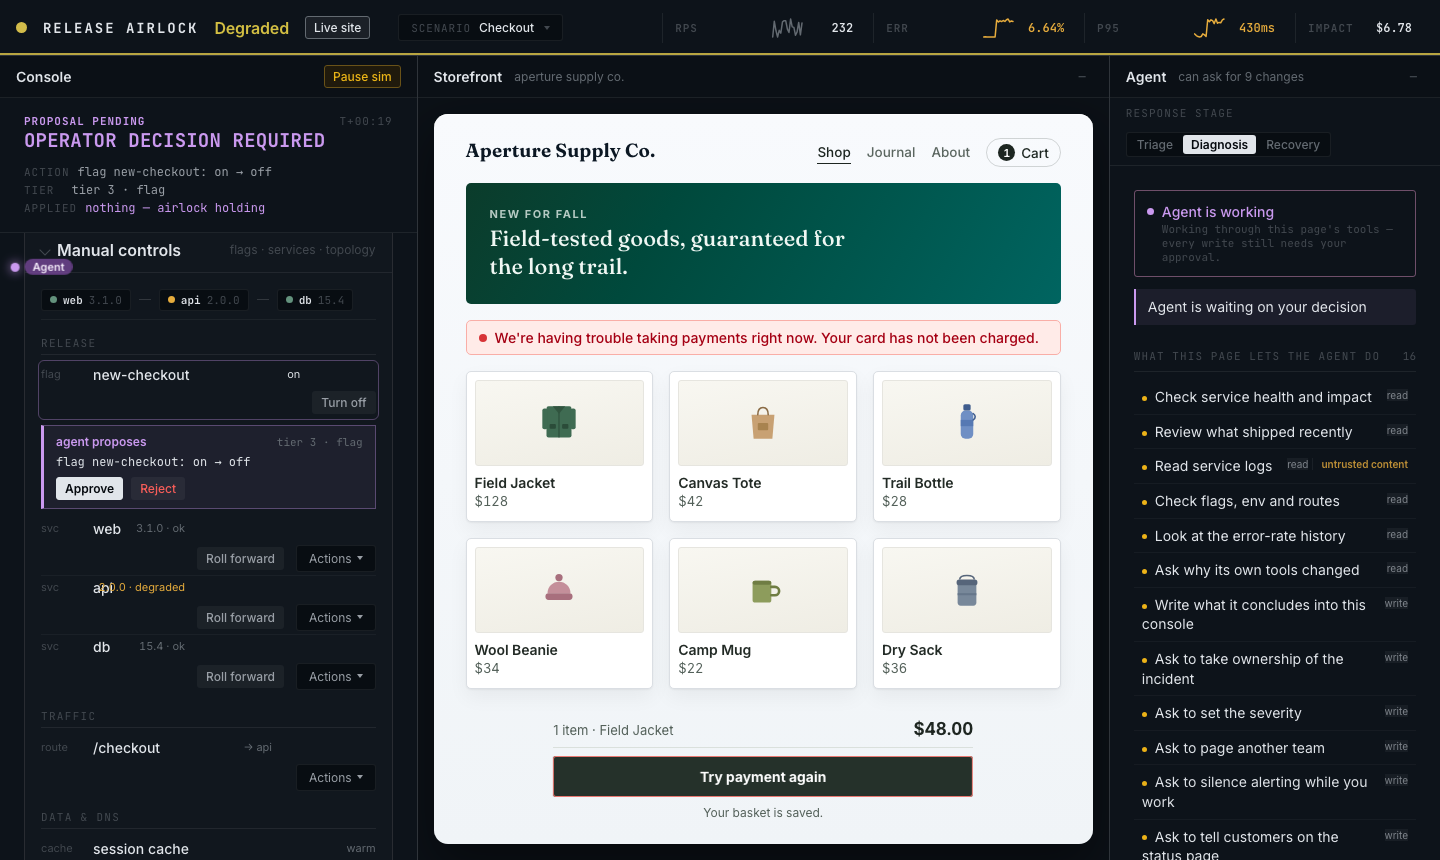
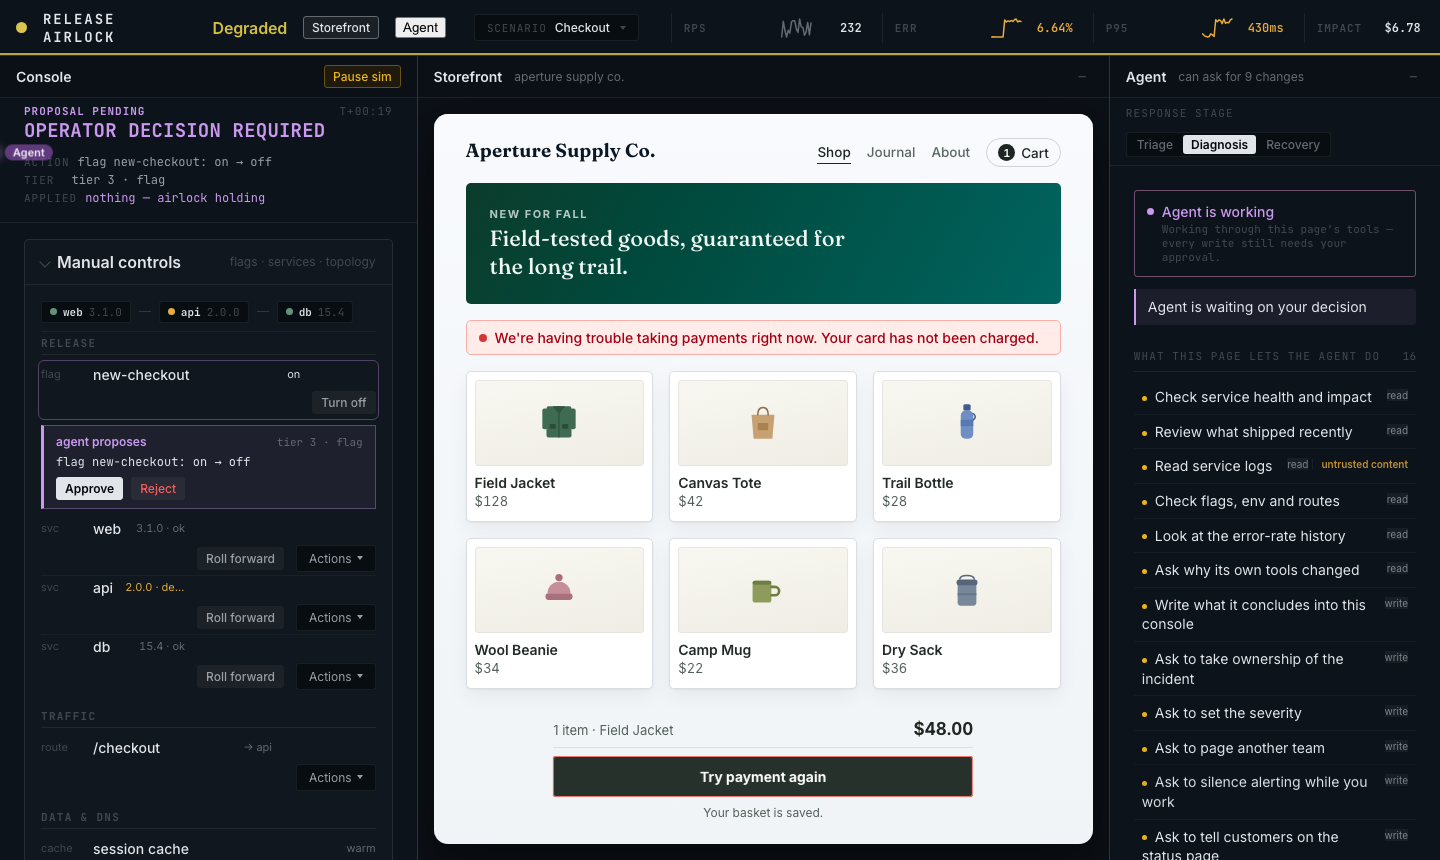
M5: space planning — three tiers, and panels that earn their footprint
Sid: "what needs to be immediately seen, what can be transitioned in, how
much space does it need... some of these panels are weirdly placed or not
assertive enough about why they need so much space."

The reflection, in an on-call engineer's shoes:
  GLANCE (no interaction)  is something wrong, how bad, how long, what can
                           I do right now
  REACH  (one interaction) why — what changed, the shape, what I already did
  DIG    (reference)       the full activity trail

Principle applied throughout: A PANEL EARNS ITS FOOTPRINT BY WHAT IT SAYS AT
A GLANCE, AND A PANEL WITH NOTHING TO SAY DOES NOT RESERVE SPACE.

- HEALTH METRICS MOVED BACK UP, beside the readout in one glance band. The
  previous pass buried "how bad is it" below the actions — an overcorrection
  Sid caught.
- CONTROL GROUPS SIT SIDE BY SIDE (Release full width, then Traffic and
  Data & DNS in two columns) instead of one narrow column with dead space to
  its right: "a lot of empty space in the middle for manual controls".
- HOLDINGS DISAPPEARS ENTIRELY when nothing is held, rather than spending a
  panel to say "nothing is held".
- THE ACTIVITY TRAIL IS NOW ON DEMAND. It is reference, not glance, and it
  was taking a whole evidence column to be ignored.
- DEPLOY CARDS: summary always, detail on click. Six badges crammed under a
  two-line title is a paragraph, not a card. What shipped and whether it is
  live stay visible; diffstat, canary and flags arrive on click — which also
[…]

diff --git a/src/main.ts b/src/main.ts
@@ -53,7 +53,9 @@ app.innerHTML = `
       <span class="wordmark">Release Airlock</span>
       <span class="health-word" id="health-word">Nominal</span>
       <button type="button" id="site-toggle" data-testid="site-toggle" aria-pressed="false"
-              title="show what customers are seeing right now">Live site</button>
+              title="show what customers are seeing right now">Storefront</button>
+      <button type="button" id="rail-toggle" data-testid="restore-rail" data-restore="rail" aria-pressed="true"
+              title="show or hide the agent panel">Agent</button>
       <details class="scenario" id="scenario-pick">
         <summary aria-label="Choose scenario"><span class="sc-k">Scenario</span><span class="sc-v" id="scenario-current"></span></summary>
         <div class="sc-menu" id="template-pick" data-testid="template-pick" role="radiogroup" aria-label="Scenario">
@@ -106,7 +108,8 @@ app.innerHTML = `
 
           <!-- ZONE 1 — the situation, in a sentence. Everything below is
                evidence for it. Computed from the log, never hardcoded. -->
-          <section id="situation" data-testid="situation" data-phase="calm">
+          <div class="glance">
+<section id="situation" data-testid="situation" data-phase="calm">
             <div class="sit-bar">
               <span class="sit-state" id="sit-state">STANDBY</span>
               <span class="sit-clock" id="sit-clock">T+00:00</span>
@@ -114,6 +117,8 @@ app.innerHTML = `
             <p class="sit-head" id="sit-head">NO SCENARIO RUNNING</p>
             <dl class="sit-fields" id="sit-fields"></dl>
           </section>
+            <section class="stats" id="stats" data-testid="stats"></section>
+          </div>
 
           <!-- ACT: the console's primary job, immediately reachable.
                Previously these sat below a readout, four stat cards, a chart,
@@ -124,13 +129,21 @@ app.innerHTML = `
             <summary><span class="zone-title">Manual controls</span><span class="zone-meta">flags · services · topology</span></summary>
             <div class="zone-body">
               <div id="topology" data-testid="topology"></div>
-              <div class="ctl-group-label">Release</div>
-              <div id="flag-controls"></div>
-              <div id="service-controls"></div>
-              <div class="ctl-group-label">Traffic</div>
-              <div id="route-controls"></div>
-              <div class="ctl-group-label">Data &amp; DNS</div>
-              <div id="ops-controls"></div>
+              <div class="ctl-groups">
+                <section class="ctl-group">
+                  <h4 class="ctl-group-label">Release</h4>
+                  <div id="flag-controls"></div>
+                  <div id="service-controls"></div>
+                </section>
+                <section class="ctl-group">
+                  <h4 class="ctl-group-label">Traffic</h4>
+                  <div id="route-controls"></div>
+                </section>
+                <section class="ctl-group">
+                  <h4 class="ctl-group-label">Data &amp; DNS</h4>
+                  <div id="ops-controls"></div>
+                </section>
+              </div>
             </div>
           </details>
 
@@ -162,8 +175,6 @@ app.innerHTML = `
                instead of extending the scroll. -->
           <div class="evidence-region">
             <div class="evidence-col">
-          <section class="stats" id="stats" data-testid="stats"></section>
-
           <section class="chart" id="err-chart" data-testid="err-chart">
             <div class="chart-head">
               <span class="chart-k">Checkout error rate</span>
@@ -189,7 +200,7 @@ app.innerHTML = `
           </details>
             </div>
             <div class="evidence-col">
-          <details class="zone" id="zone-activity" data-testid="zone-activity" open>
+          <details class="zone" id="zone-activity" data-testid="zone-activity">
             <summary>
               <span class="zone-title">Activity</span>
               <button type="button" id="audit-toggle" data-testid="audit-toggle" aria-pressed="false" title="filter the stream to who did what">Audit trail</button>
@@ -207,7 +218,6 @@ app.innerHTML = `
       </div>
     </section>
 
-    <button type="button" class="pane-restore" data-restore="site" data-testid="restore-site" aria-label="Show the storefront"><span>Storefront</span></button>
     <section class="pane" id="site-pane" aria-label="Site pane">
       <header>Storefront<span class="pane-sub">aperture supply co.</span>
         <button type="button" class="pane-min" data-min="site" data-testid="min-site" aria-label="Minimise the storefront" title="Minimise">&minus;</button>
@@ -256,7 +266,6 @@ app.innerHTML = `
       <span class="ac-dot"></span><span class="ac-label">agent</span>
     </div>
 
-    <button type="button" class="pane-restore" data-restore="rail" data-testid="restore-rail" aria-label="Show the agent panel"><span>Agent</span></button>
     <section class="pane" id="tool-rail" aria-label="Agent">
       <header>
         Agent
@@ -546,18 +555,21 @@ function renderDeployCard(deploy: Deploy, canRollback: boolean): void {
         <span class="dc-id"></span>
         <span class="dc-status"></span>
       </div>
-      <div class="dc-meta">
-        ${
-          deploy.containsMigration
-            ? `<span class="dc-badge dc-badge-migration">migration · ${
-                deploy.migrationReversible ? 'reversible' : 'irreversible'
-              }</span>`
-            : ''
-        }
-        ${deploy.flagsTouched.length ? `<span class="dc-badge">flags: ${deploy.flagsTouched.join(', ')}</span>` : ''}
-        <span class="dc-badge">${canary}</span>
-        <span class="dc-badge">${deploy.diffstat.files} files +${deploy.diffstat.plus} −${deploy.diffstat.minus}</span>
-      </div>
+      ${
+        deploy.containsMigration
+          ? `<div class="dc-flag"><span class="dc-badge dc-badge-migration">migration · ${
+              deploy.migrationReversible ? 'reversible' : 'irreversible'
+            }</span></div>`
+          : ''
+      }
+      <details class="dc-details">
+        <summary data-testid="details-${deploy.id}">Details</summary>
+        <div class="dc-meta">
+          ${deploy.flagsTouched.length ? `<span class="dc-badge">flags: ${deploy.flagsTouched.join(', ')}</span>` : ''}
+          <span class="dc-badge">${canary}</span>
+          <span class="dc-badge">${deploy.diffstat.files} files +${deploy.diffstat.plus} −${deploy.diffstat.minus}</span>
+        </div>
+      </details>
       <div class="dc-actions">
         <button type="button" class="ctl-btn dc-rollback" data-act="rollback" data-deploy="${deploy.id}" data-testid="rollback-${deploy.id}">Roll back</button>
       </div>
@@ -2002,7 +2014,13 @@ document.addEventListener('click', (e) => {
     return;
   }
   const restore = (e.target as HTMLElement).closest<HTMLElement>('[data-restore]');
-  if (restore) setPane(restore.dataset.restore as 'site' | 'rail', true);
+  if (restore) {
+    const which = restore.dataset.restore as 'site' | 'rail';
+    const open = which === 'site' ? shellEl.dataset.site !== 'on' : shellEl.dataset.rail !== 'off';
+    // the masthead button toggles; the pane's own minus only ever closes
+    setPane(which, which === 'site' ? open : shellEl.dataset.rail === 'off');
+    restore.setAttribute('aria-pressed', String(which === 'site' ? open : shellEl.dataset.rail !== 'off'));
+  }
 });
 
 runBtn.addEventListener('click', () => {

diff --git a/src/styles/shell.css b/src/styles/shell.css
@@ -1632,13 +1632,10 @@ body {
   padding: var(--sp-3) 0;
 }
 .pane-restore:hover { color: var(--ink); background: var(--panel); }
-.shell[data-site='off'] .pane-restore[data-restore='site'] { display: block; grid-area: site; }
-.shell[data-rail='off'] .pane-restore[data-restore='rail'] { display: block; grid-area: rail; }
 .shell[data-rail='off'] #tool-rail { display: none; }
-.shell[data-rail='off'] { grid-template-columns: minmax(340px, 29%) 1fr 34px; }
-.shell[data-rail='off'][data-site='off'] { grid-template-columns: 1fr 34px 34px; }
-.shell[data-site='off'] .pane-restore[data-restore='site'] { grid-area: site; }
-.shell[data-site='off'] { grid-template-columns: 1fr 34px minmax(310px, 23%); }
+.shell[data-rail='off'] { grid-template-columns: minmax(340px, 29%) 1fr 0px; }
+.shell[data-rail='off'][data-site='off'] { grid-template-columns: 1fr 0px 0px; }
+.shell[data-site='off'] { grid-template-columns: 1fr 0px minmax(310px, 23%); }
 
 /* --- the lever panel: controls that state their price --------------------
    Rule from Vercel Firewall (read live): every control names its blast
@@ -1766,7 +1763,18 @@ body {
 }
 .ctl-row .ctl-kind { grid-column: 1; }
 .ctl-row .ctl-name { grid-column: 2; white-space: nowrap; }
-.ctl-row .ctl-state { grid-column: 3; justify-self: end; text-align: right; white-space: nowrap; min-width: 0; overflow: hidden; text-overflow: ellipsis; }
+/* `justify-self: end` lets a too-wide box extend LEFT past its track start,
+   which printed the state over the service name ("ap0.0 · degraded").
+   Stretch to the track and right-align the text so clipping actually works. */
+.ctl-row .ctl-state {
+  grid-column: 3;
+  justify-self: stretch;
+  text-align: right;
+  white-space: nowrap;
+  min-width: 0;
+  overflow: hidden;
+  text-overflow: ellipsis;
+}
 /* column 4 is the optional primary verb; column 5 is always the menu */
 .ctl-row > .ctl-btn:not(.lever) { grid-column: 4; justify-self: stretch; }
 .ctl-row > .actions-menu { grid-column: 5; justify-self: stretch; }
@@ -1839,3 +1847,78 @@ body {
 /* the controls surface is the biggest thing here, and should look it */
 #zone-controls { border-color: color-mix(in oklch, var(--ink-ghost) 22%, var(--line)); }
 #zone-controls > summary .zone-title { font-size: var(--text-md, 16px); }
+
+/* --- SPACE PLANNING -------------------------------------------------------
+   Three tiers, and a panel earns its footprint by what it says at a glance.
+
+   GLANCE (no interaction): is something wrong, how bad, how long, and what
+   can I do right now. State and health metrics belong together at the top;
+   putting the metrics below the actions buried the answer to "how bad".
+   REACH (one interaction): why — what changed, the shape of it, what I have
+   already done.
+   DIG: the full activity trail.
+
+   A panel with nothing to say does not reserve space. */
+
+/* GLANCE: state and the numbers, one band, side by side when there is room */
+.glance { display: grid; grid-template-columns: 1fr; gap: var(--sp-3); }
+@container console (min-width: 720px) {
+  .glance { grid-template-columns: minmax(0, 1.35fr) minmax(300px, 1fr); align-items: start; }
+}
+.glance #stats {
+  display: grid;
+  grid-template-columns: repeat(2, minmax(0, 1fr));
+  gap: var(--sp-2);
+  align-content: start;
+}
+
+/* ACT: the control groups sit side by side instead of one narrow column
+   with dead space to its right — Sid: "a lot of empty space in the middle" */
+.ctl-groups { display: grid; grid-template-columns: 1fr; gap: var(--sp-4) var(--sp-6); }
+@container console (min-width: 720px) {
+  .ctl-groups { grid-template-columns: repeat(2, minmax(0, 1fr)); }
+  /* Release carries the most rows, so let it take the full first row */
+  .ctl-groups > .ctl-group:first-child { grid-column: 1 / -1; }
+}
+.ctl-group { min-width: 0; display: flex; flex-direction: column; }
+h4.ctl-group-label { margin: 0 0 var(--sp-2); }
+
+/* A panel with nothing to say should not claim a panel's worth of space. */
+#zone-holding:not(:has(.holding)) { display: none; }
+
+/* --- a closed panel leaves NO rail ---------------------------------------
+   The vertical writing-mode restore strip read as a stray artifact. The
+   masthead already owns "is this panel showing" for the storefront, so the
+   agent panel joins it there and closed panes simply collapse to zero. */
+.pane-restore { display: none !important; }
+
+/* --- deploy cards: a summary you can read, detail on demand --------------
+   Sid, several times: "the text is so compressed in those cards, and
+   clicking doesn't do much". Six badges crammed under a two-line title is
+   not a card, it is a paragraph. The card now states what shipped and
+   whether it is live; the diffstat, canary and flags arrive on click, which
+   also gives clicking a purpose. */
+.deploy-card .dc-title { line-height: 1.4; margin-bottom: 4px; }
+.deploy-card .dc-head { display: flex; flex-wrap: wrap; gap: var(--sp-2); align-items: baseline; }
+.dc-flag { margin-top: var(--sp-2); }
+.dc-details { margin-top: var(--sp-2); }
+.dc-details > summary {
+  list-style: none; cursor: pointer;
+  display: inline-flex; align-items: center; gap: 5px;
+  font-family: var(--font-instrument);
+  font-size: var(--text-2xs);
+  color: var(--ink-ghost);
+}
+.dc-details > summary::-webkit-details-marker { display: none; }
+.dc-details > summary::before {
+  content: ''; width: 0; height: 0;
+  border-left: 4px solid currentColor;
+  border-top: 3.5px solid transparent; border-bottom: 3.5px solid transparent;
+  transition: transform 120ms ease;
+}
+.dc-details[open] > summary::before { transform: rotate(90deg); }
+.dc-details > summary:hover { color: var(--ink-dim); }
+.dc-details .dc-meta { margin-top: var(--sp-2); display: flex; flex-wrap: wrap; gap: var(--sp-2); }
+
+/* the activity trail is reference, not glance: it arrives when asked for */
+#zone-activity:not([open]) > summary { color: var(--ink-dim); }
